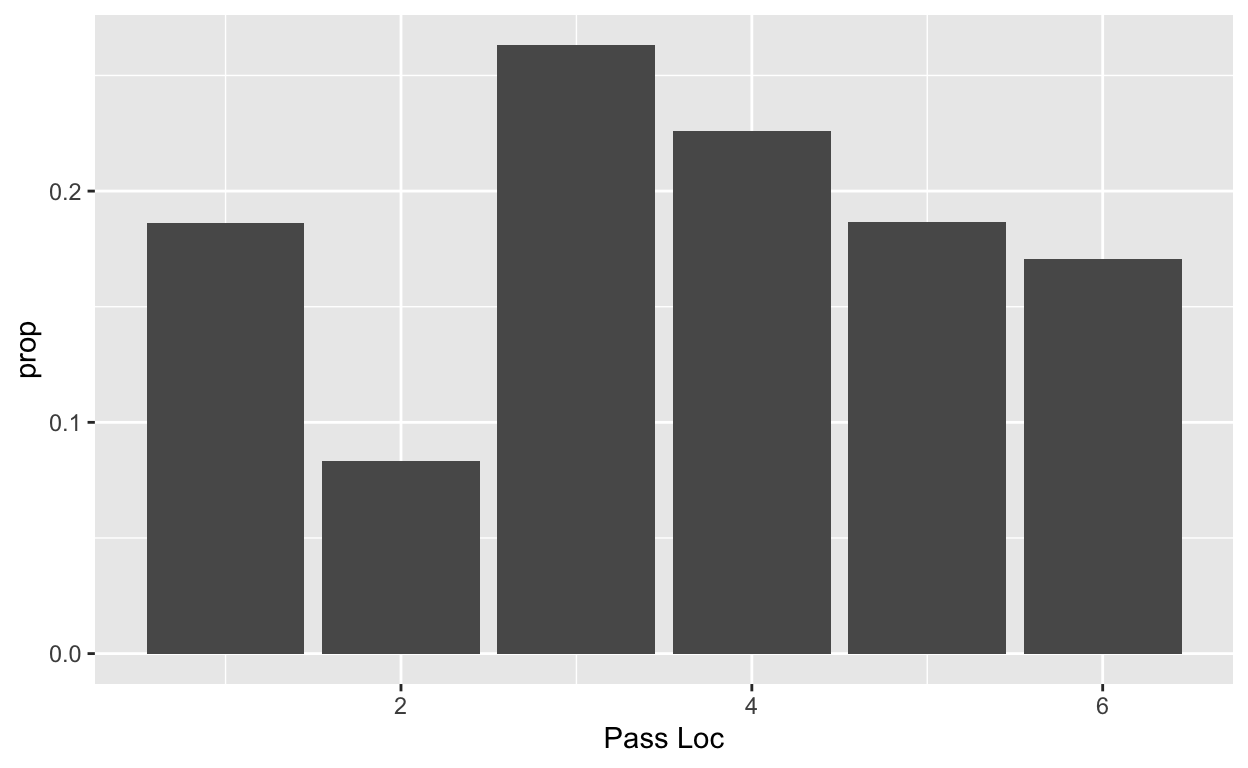
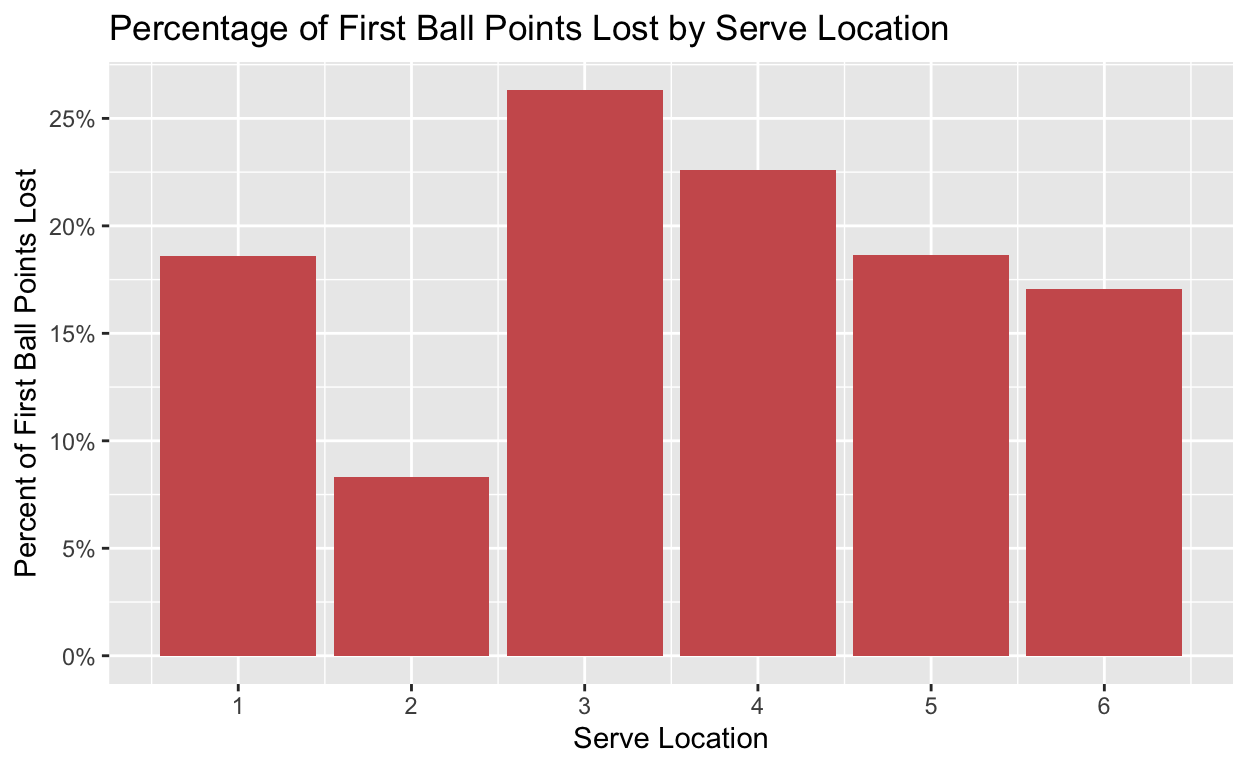
Maybe done with graphs

diff --git a/index.html b/index.html
@@ -1717,14 +1717,24 @@ code span.wa { color: #5e5e5e; font-style: italic; } /* Warning */
 <div class="layout-chunk" data-layout="l-body">
 <div class="sourceCode">
 <pre class="sourceCode r"><code class="sourceCode r"><span><span class='fu'><a href='https://ggplot2.tidyverse.org/reference/ggplot.html'>ggplot</a></span><span class='op'>(</span><span class='va'>prop_win</span>, mapping <span class='op'>=</span> <span class='fu'><a href='https://ggplot2.tidyverse.org/reference/aes.html'>aes</a></span><span class='op'>(</span>x <span class='op'>=</span> <span class='va'>`Pass Loc`</span>, y <span class='op'>=</span> <span class='va'>prop</span> <span class='op'>)</span><span class='op'>)</span><span class='op'>+</span> </span>
-<span>  <span class='fu'><a href='https://ggplot2.tidyverse.org/reference/geom_bar.html'>geom_col</a></span><span class='op'>(</span><span class='op'>)</span></span></code></pre>
+<span>  <span class='fu'><a href='https://ggplot2.tidyverse.org/reference/geom_bar.html'>geom_col</a></span><span class='op'>(</span>fill <span class='op'>=</span> <span class='st'>"dodgerblue"</span>, alpha <span class='op'>=</span> <span class='fl'>1</span><span class='op'>)</span> <span class='op'>+</span></span>
+<span>  <span class='fu'><a href='https://ggplot2.tidyverse.org/reference/scale_continuous.html'>scale_x_continuous</a></span><span class='op'>(</span>breaks <span class='op'>=</span> <span class='fl'>1</span><span class='op'>:</span><span class='fl'>6</span><span class='op'>)</span> <span class='op'>+</span></span>
+<span>  <span class='fu'><a href='https://ggplot2.tidyverse.org/reference/scale_continuous.html'>scale_y_continuous</a></span><span class='op'>(</span>labels <span class='op'>=</span> <span class='fu'><a href='https://scales.r-lib.org/reference/percent_format.html'>percent_format</a></span><span class='op'>(</span><span class='op'>)</span><span class='op'>)</span> <span class='op'>+</span></span>
+<span>  <span class='fu'><a href='https://ggplot2.tidyverse.org/reference/labs.html'>labs</a></span><span class='op'>(</span>title <span class='op'>=</span> <span class='st'>"Percentage of First Ball Points Won by Serve Location"</span>, </span>
+<span>       x <span class='op'>=</span> <span class='st'>"Serve Location"</span>, </span>
+<span>       y <span class='op'>=</span> <span class='st'>"Percent of First Ball Points Won"</span><span class='op'>)</span></span></code></pre>
 </div>
 <p><img src="index_files/figure-html5/Plot%20for%20win%20proportion-1.png" alt="" width="624" /></p>
 </div>
 <div class="layout-chunk" data-layout="l-body">
 <div class="sourceCode">
 <pre class="sourceCode r"><code class="sourceCode r"><span><span class='fu'><a href='https://ggplot2.tidyverse.org/reference/ggplot.html'>ggplot</a></span><span class='op'>(</span><span class='va'>prop_loss</span>, mapping <span class='op'>=</span> <span class='fu'><a href='https://ggplot2.tidyverse.org/reference/aes.html'>aes</a></span><span class='op'>(</span>x <span class='op'>=</span> <span class='va'>`Pass Loc`</span>, y <span class='op'>=</span> <span class='va'>prop</span><span class='op'>)</span><span class='op'>)</span> <span class='op'>+</span> </span>
-<span>  <span class='fu'><a href='https://ggplot2.tidyverse.org/reference/geom_bar.html'>geom_col</a></span><span class='op'>(</span><span class='op'>)</span></span></code></pre>
+<span>  <span class='fu'><a href='https://ggplot2.tidyverse.org/reference/geom_bar.html'>geom_col</a></span><span class='op'>(</span>fill <span class='op'>=</span> <span class='st'>"indianred"</span>, alpha <span class='op'>=</span> <span class='fl'>1</span><span class='op'>)</span> <span class='op'>+</span> </span>
+<span>  <span class='fu'><a href='https://ggplot2.tidyverse.org/reference/scale_continuous.html'>scale_x_continuous</a></span><span class='op'>(</span>breaks <span class='op'>=</span> <span class='fl'>1</span><span class='op'>:</span><span class='fl'>6</span><span class='op'>)</span> <span class='op'>+</span></span>
+<span>  <span class='fu'><a href='https://ggplot2.tidyverse.org/reference/scale_continuous.html'>scale_y_continuous</a></span><span class='op'>(</span>labels <span class='op'>=</span> <span class='fu'><a href='https://scales.r-lib.org/reference/percent_format.html'>percent_format</a></span><span class='op'>(</span><span class='op'>)</span>, breaks <span class='op'>=</span> <span class='fu'><a href='https://rdrr.io/r/base/seq.html'>seq</a></span><span class='op'>(</span><span class='fl'>0</span>, <span class='fl'>1</span>, by <span class='op'>=</span> <span class='fl'>0.05</span><span class='op'>)</span><span class='op'>)</span> <span class='op'>+</span></span>
+<span>  <span class='fu'><a href='https://ggplot2.tidyverse.org/reference/labs.html'>labs</a></span><span class='op'>(</span>title <span class='op'>=</span> <span class='st'>"Percentage of First Ball Points Lost by Serve Location"</span>, </span>
+<span>       x <span class='op'>=</span> <span class='st'>"Serve Location"</span>, </span>
+<span>       y <span class='op'>=</span> <span class='st'>"Percent of First Ball Points Lost"</span><span class='op'>)</span></span></code></pre>
 </div>
 <p><img src="index_files/figure-html5/plot%20for%20loss%20proportion-1.png" alt="" width="624" /></p>
 </div>
